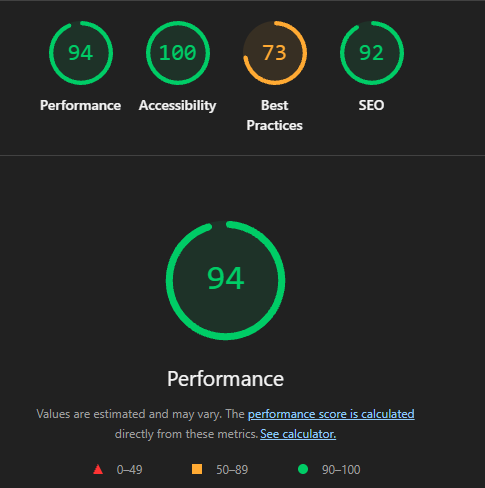
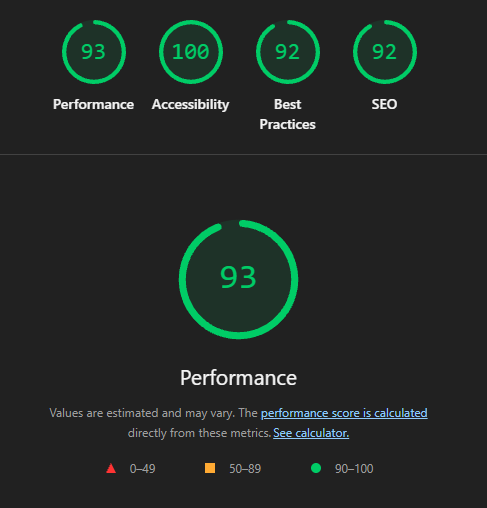
feat: lägg till stöd för ljust och mörkt tema

diff --git a/src/styles/main.scss b/src/styles/main.scss
@@ -1,12 +1,40 @@
+
 /* ========================================
    1. FÄRGER OCH GRUNDINSTÄLLNINGAR
 ======================================== */
 
-$color-background: #101820;
-$color-surface: #192630;
-$color-text: #f4f5f2;
-$color-muted: #a6b2b8;
-$color-accent: #b7f34a;
+:root {
+  color-scheme: dark;
+
+  --color-background: #101820;
+  --color-surface: #192630;
+  --color-text: #f4f5f2;
+  --color-muted: #a6b2b8;
+  --color-accent: #b7f34a;
+  --color-border: rgba(255, 255, 255, 0.12);
+  --color-footer: #0b1117;
+}
+
+@media (prefers-color-scheme: light) {
+  :root {
+    color-scheme: light;
+
+    --color-background: #e8ecee;
+    --color-surface: #f3f5f5;
+    --color-text: #18232b;
+    --color-muted: #52616b;
+    --color-accent: #426b00;
+    --color-border: rgba(0, 0, 0, 0.12);
+    --color-footer: #dce2e4;
+  }
+}
+
+$color-background: var(--color-background);
+$color-surface: var(--color-surface);
+$color-text: var(--color-text);
+$color-muted: var(--color-muted);
+$color-accent: var(--color-accent);
+$color-footer: var(--color-footer);
 
 * {
   box-sizing: border-box;
@@ -44,7 +72,7 @@ a:focus-visible {
   align-items: center;
   padding: 24px 8%;
   background: $color-background;
-  border-bottom: 1px solid rgba(255, 255, 255, 0.1);
+  border-bottom: 1px solid var(--color-border);
 }
 
 .site-logo {
@@ -148,7 +176,7 @@ a:focus-visible {
 .speakers,
 .tickets {
   padding: 90px 8%;
-  border-top: 1px solid rgba(255, 255, 255, 0.1);
+  border-top: 1px solid var(--color-border);
 }
 
 .about h2,
@@ -191,7 +219,7 @@ a:focus-visible {
   gap: 24px;
   padding: 28px;
   background: $color-surface;
-  border: 1px solid rgba(255, 255, 255, 0.1);
+  border: 1px solid var(--color-border);
   border-radius: 8px;
   transition:
     border-color 0.2s ease,
@@ -237,7 +265,7 @@ a:focus-visible {
 .speaker-card {
   padding: 30px;
   background: $color-surface;
-  border: 1px solid rgba(255, 255, 255, 0.1);
+  border: 1px solid var(--color-border);
   border-radius: 8px;
   transition:
     transform 0.2s ease,
@@ -287,7 +315,7 @@ a:focus-visible {
   flex-direction: column;
   padding: 32px;
   background: $color-surface;
-  border: 1px solid rgba(255, 255, 255, 0.12);
+  border: 1px solid var(--color-border);
   border-radius: 8px;
   transition:
     transform 0.2s ease,
@@ -373,7 +401,6 @@ a:focus-visible {
   }
 }
 
-
 .location-grid {
   display: grid;
   grid-template-columns: minmax(0, 0.9fr) minmax(0, 1.1fr);
@@ -396,7 +423,7 @@ a:focus-visible {
   display: flex;
   gap: 22px;
   padding-bottom: 22px;
-  border-bottom: 1px solid rgba(255, 255, 255, 0.12);
+  border-bottom: 1px solid var(--color-border);
 
   h3 {
     margin: 0 0 8px;
@@ -436,7 +463,7 @@ a:focus-visible {
   margin: 0;
   overflow: hidden;
   background: $color-background;
-  border: 1px solid rgba(255, 255, 255, 0.12);
+  border: 1px solid var(--color-border);
   border-radius: 10px;
 
   img {
@@ -461,8 +488,8 @@ a:focus-visible {
 
 .site-footer {
   padding: 35px 8%;
-  background: #0b1117;
-  border-top: 1px solid rgba(255, 255, 255, 0.1);
+  background: $color-footer;
+  border-top: 1px solid var(--color-border);
   color: $color-muted;
   font-size: 0.85rem;
   text-align: center;
